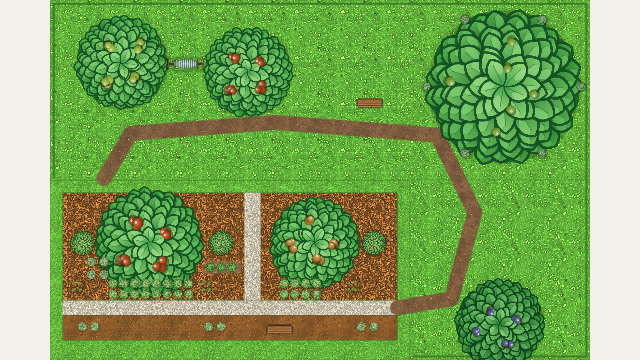
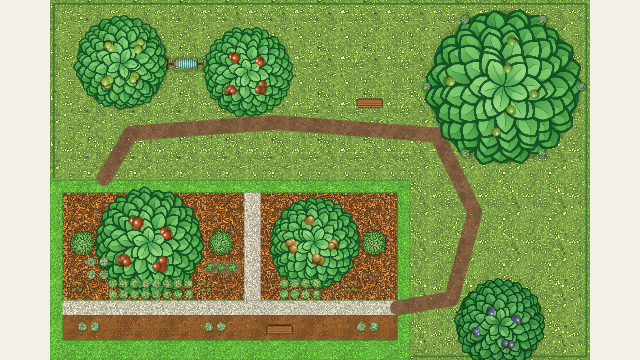
feat(#940): the meadows as the 3D meadow wants them
One polygon round the forest garden instead of two rectangles that show
their seam, and a meadow green of its own so a meadow can be told from a
lawn at a distance.

Changed region(s): [[0.0625, 0.0, 0.9375, 1.0], [0.625, 0.8556, 0.75, 1.0]]

diff --git a/scripts/example_plans/food_forest.py b/scripts/example_plans/food_forest.py
@@ -10,6 +10,9 @@ from __future__ import annotations
 from copy import deepcopy
 from uuid import NAMESPACE_URL, uuid5
 
+from PyQt6.QtCore import QPointF
+from PyQt6.QtGui import QColor
+
 from open_garden_planner.core.fill_patterns import FillPattern, create_pattern_brush
 from open_garden_planner.core.guild_commands import GuildMembershipCommand
 from open_garden_planner.core.item_look import adopt_pen
@@ -20,6 +23,7 @@ from open_garden_planner.models.plant_data import PermacultureLayer
 from open_garden_planner.services.example_library import BUNDLED_EXAMPLES
 from open_garden_planner.services.guild_library import GuildLibrary
 from open_garden_planner.ui.canvas.canvas_scene import CanvasScene
+from open_garden_planner.ui.canvas.items import PolygonItem
 
 from . import authoring as a
 from .i18n import text
@@ -152,11 +156,17 @@ def _orchard_meadow(scene, layers):
     their own (``OWN_IDS``), so that no item of the first plan changed its id."""
     T = ObjectType
     OWN_IDS.clear()
-    meadow = text("Orchard meadow", "Streuobstwiese", "Pradera de frutales")
-    for x, y, width, height in ((0, 1000, 3000, 1000), (2000, 0, 1000, 1000)):
-        item = a.rect(scene, x, y, width, height, T.LAWN, meadow, item_id=_own("meadow", x, y))
-        item.fill_pattern = FillPattern.WILDFLOWER
-        item.setBrush(create_pattern_brush(item.fill_pattern, item.fill_color))
+    # One polygon round the forest garden, not two rectangles: where two meadows meet,
+    # each bakes its outline and its flower drifts stop, and the seam shows in 3D.
+    meadow = PolygonItem([QPointF(x, y) for x, y in (
+        (0, 1000), (2000, 1000), (2000, 0), (3000, 0), (3000, 2000), (0, 2000))],
+        object_type=T.LAWN, name=text("Orchard meadow", "Streuobstwiese", "Pradera de frutales"),
+        layer_id=scene.active_layer.id)
+    meadow._item_id = _own("meadow")
+    meadow.fill_color = QColor(a.MEADOW_GREEN)
+    meadow.fill_pattern = FillPattern.WILDFLOWER
+    meadow.setBrush(create_pattern_brush(meadow.fill_pattern, meadow.fill_color))
+    scene.addItem(meadow)
     a.line(scene, [(20, 1010), (20, 1980), (2980, 1980), (2980, 20), (2010, 20)], T.FENCE,
            text("Field hedge", "Feldhecke", "Seto de campo"), 180, PathFenceStyle.HEDGE_FENCE,
            item_id=_own("hedge"))

diff --git a/tests/unit/test_example_content.py b/tests/unit/test_example_content.py
@@ -78,7 +78,9 @@ def test_the_orchard_meadow_holds_standard_trees_and_a_walnut_guild():
         distance = math.hypot(aster["center_x"] - walnut["center_x"], aster["center_y"] - walnut["center_y"])
         assert 400 <= distance <= 460, "at the young walnut's canopy edge"
     meadows = [o for o in plan["objects"] if o.get("object_type") == "LAWN" and o.get("fill_pattern") == "WILDFLOWER"]
-    assert len(meadows) == 2 and plan["canvas"] == {"width": 3000, "height": 2000}
+    # one meadow round the forest garden: two that touch show their seam in 3D
+    assert len(meadows) == 1 and meadows[0]["type"] == "polygon"
+    assert plan["canvas"] == {"width": 3000, "height": 2000}
 
 
 def test_forest_uses_established_trees_grouped_ground_cover_and_local_guild_members():

diff --git a/scripts/example_plans/wildlife_garden.py b/scripts/example_plans/wildlife_garden.py
@@ -33,8 +33,9 @@ META = {
 def build():
     T, plan = ObjectType, Plan(SLUG, 1800, 1400, layer=text("Wildlife garden", "Naturgarten", "Jardín natural"))
     plan.site("lueneburg")
+    # one polygon, and everything that clears the grass is drawn after it, so above it
     plan.rect(0, 0, 1800, 1400, T.LAWN, text("Flower meadow", "Blumenwiese", "Pradera de flores"),
-              fill=FillPattern.WILDFLOWER)
+              fill=FillPattern.WILDFLOWER, color=a.MEADOW_GREEN)
     plan.line([(12, 12), (12, 1388), (1788, 1388), (1788, 12)], T.FENCE,
               text("Wild hedge", "Wildhecke", "Seto silvestre"), style=PathFenceStyle.HEDGE_FENCE, tall=170)
     fence = text("Front fence", "Vorderzaun", "Valla delantera")

diff --git a/scripts/example_plans/authoring.py b/scripts/example_plans/authoring.py
@@ -107,6 +107,10 @@ def site(manager, city, latitude, longitude):
                               "last_spring_frost": "05-15", "first_fall_frost": "10-15"}})
 
 
+#: A flower meadow's green: a lawn with the WILDFLOWER fill takes its fill colour for the
+#: blades in 3D, and with a lawn's own lime the two cannot be told apart from 25 m.
+MEADOW_GREEN = "#7fa348"
+
 #: A soil sample's remark in a plan whose sample is not tied to one teaching date.
 SOIL_NOTE = text("Fictional sample; not a real soil analysis.",
                  "Fiktive Probe; keine echte Bodenanalyse.",
